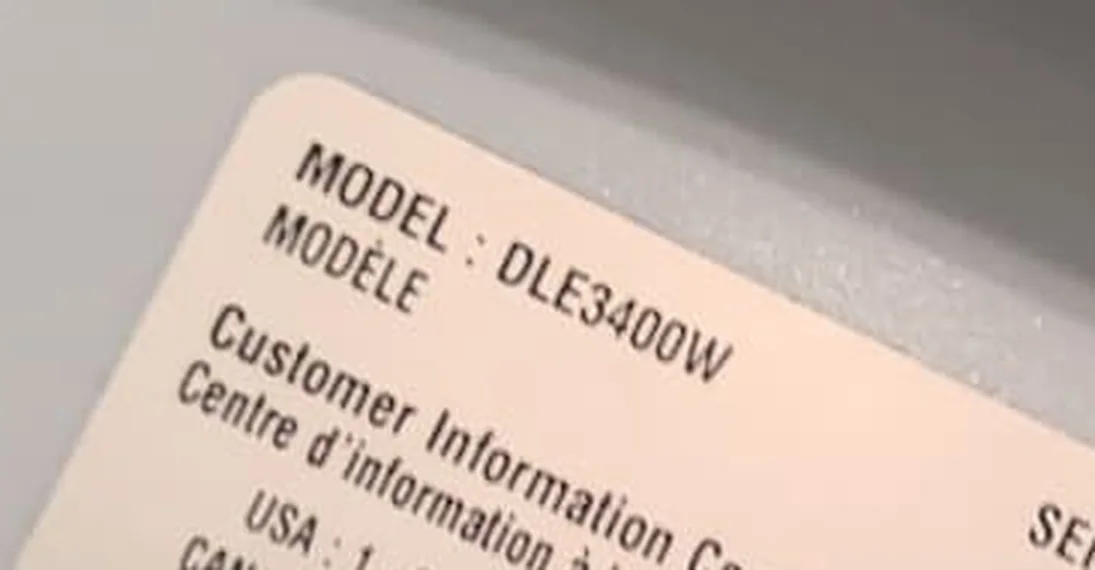
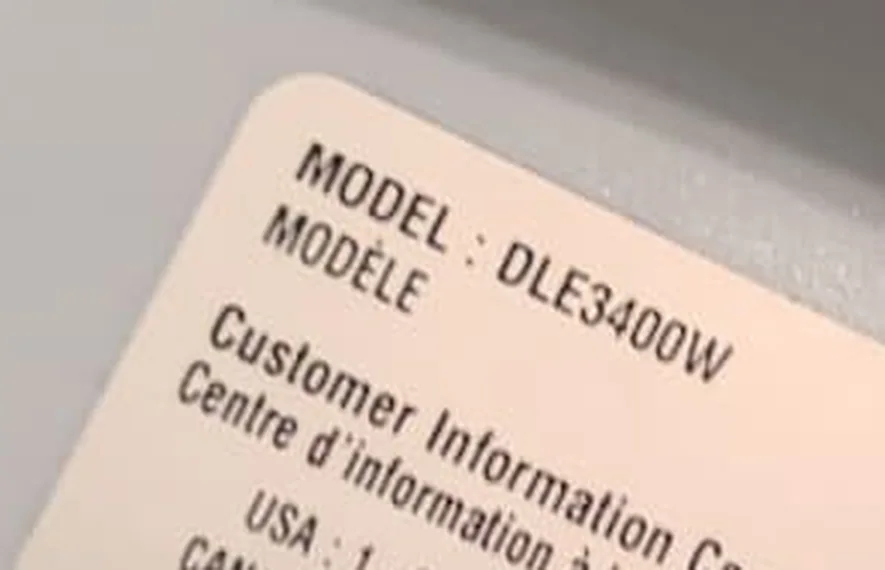
Remove serial area from LG dryer model label crop

diff --git a/repair-cases/lg-dle3400w-dryer-thermostat-vent-repair-fishers-indiana.html b/repair-cases/lg-dle3400w-dryer-thermostat-vent-repair-fishers-indiana.html
@@ -364,7 +364,7 @@ height="0" width="0" style="display:none;visibility:hidden"></iframe></noscript>
 <main class="local-seo-page repair-case-page">
 <section class="case-heading"><div class="local-shell"><nav class="case-breadcrumb" aria-label="Breadcrumb"><a href="../index.html">Home</a> / <a href="../blog.html">Blog</a> / <a href="../recent-work.html">Repair stories</a></nav><p class="local-eyebrow">Fishers, Indiana · dryer service</p><h1>LG DLE3400W Dryer Overheating in Fishers, Indiana – Blower Thermostat and Vent Repair</h1><p class="case-lead">A failed blower thermostat and crushed exhaust duct caused an LG DLE3400W dryer airflow and overheating problem. We replaced the thermostat, cleaned the dryer and corrected the vent connection.</p><p class="case-byline">By <a href="../about.html">Alex Appliance Repair</a> · Published <time datetime="2026-09-13">September 13, 2026</time></p><a class="local-button" href="https://aleksappliancerepair.com/booking">Book service online</a></div></section>
 <section class="local-section"><div class="local-shell case-layout"><aside class="case-summary case-summary--with-image"><div class="case-summary-copy"><h2>Visit overview</h2><dl><dt>Appliance</dt><dd>LG electric dryer</dd><dt>Model</dt><dd>DLE3400W</dd><dt>Location</dt><dd>Fishers, Indiana</dd><dt>Problem</dt><dd>Dryer overheating and restricted airflow</dd><dt>Diagnosis</dt><dd>Failed blower thermostat and crushed exhaust duct</dd><dt>Repair</dt><dd>LG 6931EL3002M thermostat replacement, internal cleaning and exhaust duct correction</dd><dt>Result</dt><dd>Normal heating and exhaust airflow restored</dd></dl><a href="../fishers.html">View Fishers service coverage</a><hr><h2>Discuss your appliance</h2><p>Share the model, symptoms and installation details when booking.</p><a class="local-button" href="tel:+14632488429">Call our team</a></div><figure class="case-summary-visual"><img src="../images/repair-cases/lg-dle3400w-dryer-thermostat-fishers/lg-dle3400w-k560-thermostat-diagram.webp" width="1200" height="1339" alt="LG DLE3400W parts diagram highlighting the K560 blower thermostat" loading="lazy" decoding="async"></figure></aside><article class="case-body editorial-story">
- <div class="repair-story-section"><figure class="article-image-left"><a href="../images/repair-cases/lg-dle3400w-dryer-thermostat-fishers/lg-dle3400w-model-label.webp"><img src="../images/repair-cases/lg-dle3400w-dryer-thermostat-fishers/lg-dle3400w-model-label.webp" width="1095" height="570" alt="Cropped model label identifying the dryer as LG DLE3400W" loading="lazy" decoding="async"></a><figcaption>Cropped model label identifying the dryer as LG DLE3400W</figcaption></figure><p>A homeowner in Fishers, Indiana contacted Alex Appliance Repair about an <strong>LG DLE3400W electric dryer</strong> that was overheating. This laundry setup placed the dryer above an LG front-load washer, so safe access required removing the dryer from the stacked installation before diagnosis.</p><p>Inspection found two connected problems: the blower housing thermostat had failed, and the exhaust transition duct behind the stacked appliances was crushed and restricting airflow. The completed repair combined thermostat replacement with internal cleaning and correction of the exhaust connection.</p></div>
+ <div class="repair-story-section"><figure class="article-image-left"><a href="../images/repair-cases/lg-dle3400w-dryer-thermostat-fishers/lg-dle3400w-model-label.webp"><img src="../images/repair-cases/lg-dle3400w-dryer-thermostat-fishers/lg-dle3400w-model-label.webp" width="885" height="570" alt="Cropped model label identifying the dryer as LG DLE3400W" loading="lazy" decoding="async"></a><figcaption>Cropped model label identifying the dryer as LG DLE3400W</figcaption></figure><p>A homeowner in Fishers, Indiana contacted Alex Appliance Repair about an <strong>LG DLE3400W electric dryer</strong> that was overheating. This laundry setup placed the dryer above an LG front-load washer, so safe access required removing the dryer from the stacked installation before diagnosis.</p><p>Inspection found two connected problems: the blower housing thermostat had failed, and the exhaust transition duct behind the stacked appliances was crushed and restricting airflow. The completed repair combined thermostat replacement with internal cleaning and correction of the exhaust connection.</p></div>
  <section class="repair-story-section"><figure class="article-image-right"><a href="../images/repair-cases/lg-dle3400w-dryer-thermostat-fishers/lg-dle3400w-stacked-after-repair.webp"><img src="../images/repair-cases/lg-dle3400w-dryer-thermostat-fishers/lg-dle3400w-stacked-after-repair.webp" width="1200" height="1600" alt="LG DLE3400W dryer returned to its stacked position after repair in Fishers" fetchpriority="high" decoding="async"></a><figcaption>LG DLE3400W dryer returned to its stacked position after repair in Fishers</figcaption></figure><h2>The Dryer Before and After Service</h2><p>The finished installation shows the DLE3400W back above its matching washer. Reaching that result required servicing the dryer itself and rebuilding the restricted transition between the appliance and the wall exhaust.</p><p>The photographs below follow the work in order: access, diagnosis, internal cleaning, thermostat replacement, exhaust correction, reassembly and operating checks.</p></section>
  <section class="repair-story-section"><figure class="article-image-left"><a href="../images/repair-cases/lg-dle3400w-dryer-thermostat-fishers/lg-dryer-removed-for-service.webp"><img src="../images/repair-cases/lg-dle3400w-dryer-thermostat-fishers/lg-dryer-removed-for-service.webp" width="1200" height="1600" alt="LG dryer removed from the stacked installation for cabinet access" loading="lazy" decoding="async"></a><figcaption>LG dryer removed from the stacked installation for cabinet access</figcaption></figure><h2>Accessing the Stacked LG Dryer</h2><p>We disconnected the dryer and carefully removed it from the washer so the cabinet and rear exhaust connection could be reached. Once the unit was in a safe service position, we opened the cabinet and removed the drum for access to the blower, exhaust path and heating system.</p><p>A stacked installation can hide the condition of the transition duct. Moving the dryer exposed the space behind the appliances and made it possible to inspect the complete connection instead of treating the failed component in isolation.</p></section>
  <section class="repair-story-section"><figure class="article-image-right"><a href="../images/repair-cases/lg-dle3400w-dryer-thermostat-fishers/lg-dryer-open-cabinet-before-cleaning.webp"><img src="../images/repair-cases/lg-dle3400w-dryer-thermostat-fishers/lg-dryer-open-cabinet-before-cleaning.webp" width="1200" height="1600" alt="Open LG dryer cabinet showing the blower, heater and internal airflow path" loading="lazy" decoding="async"></a><figcaption>Open LG dryer cabinet showing the blower, heater and internal airflow path</figcaption></figure><h2>Inspecting the Airflow and Heating System</h2><p>With the dryer open, we inspected the wiring, heater area, blower housing and accessible exhaust passages. Lint and debris had accumulated inside the cabinet and around the airflow path. The service photos document the condition before cleaning and the access required for testing.</p><p>Electrical testing identified the failed component as the <strong>blower housing thermostat</strong>. For model DLE3400W, the replacement used on this repair was LG part <strong>6931EL3002M</strong>, shown as position <strong>K560</strong> in the model parts diagram.</p></section>
